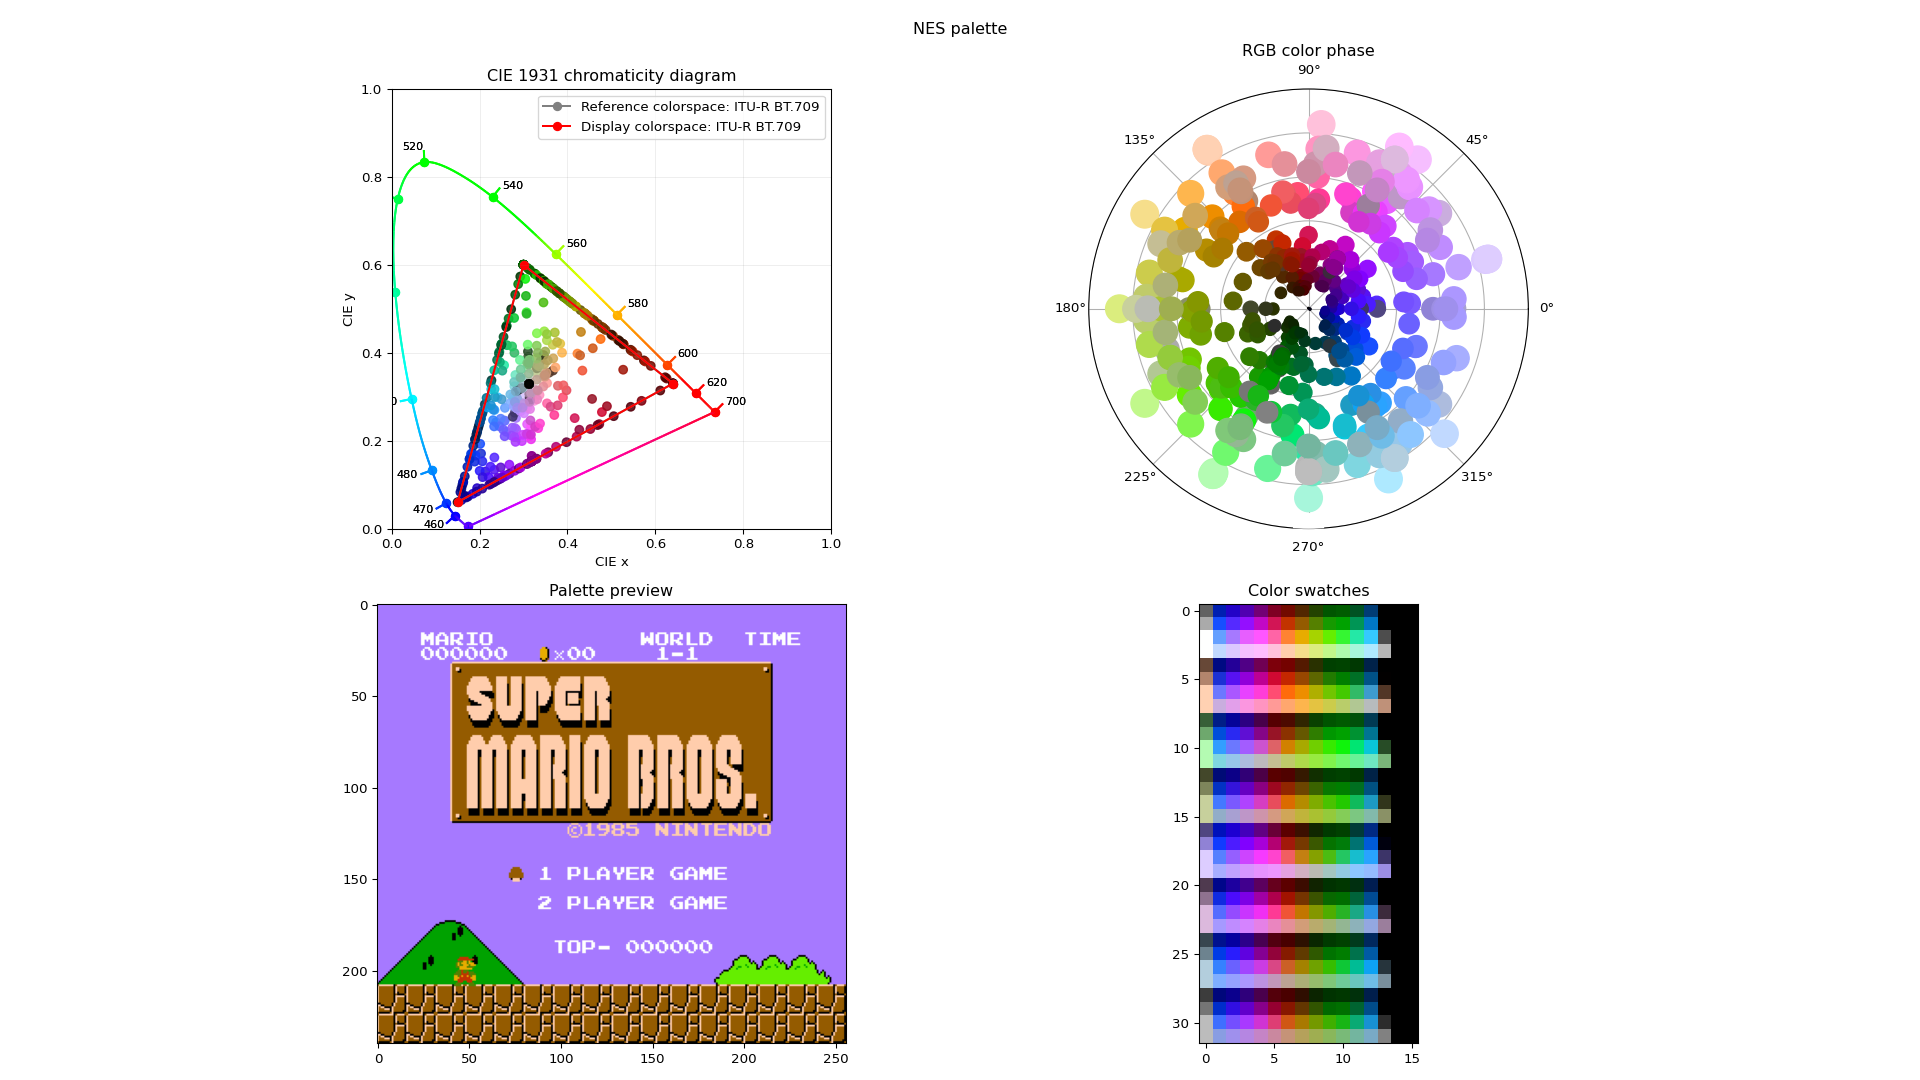
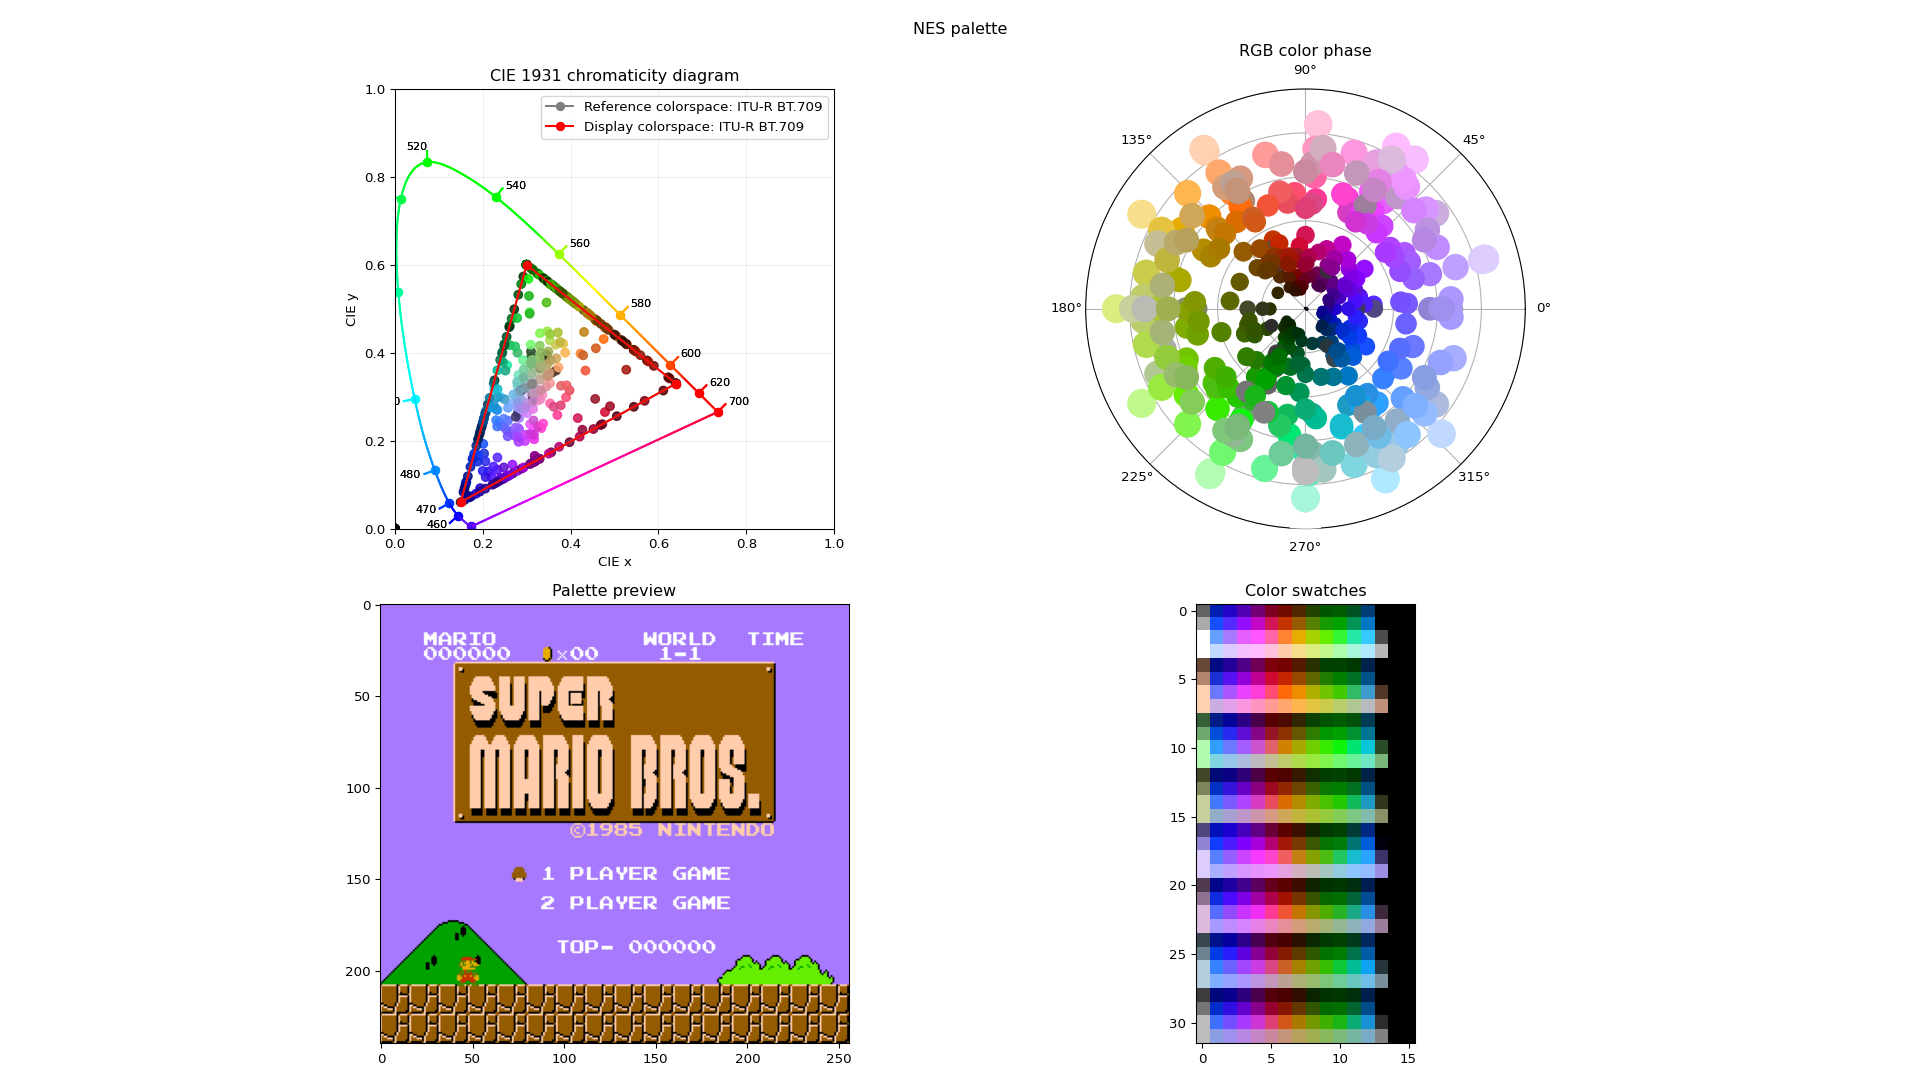
Fix OETFs, add linear light output
thanks L. Spiro and NewRisingSun!

diff --git a/palgen-persune.py b/palgen-persune.py
@@ -23,7 +23,7 @@ import numpy as np
 
 parser=argparse.ArgumentParser(
     description="yet another NES palette generator",
-    epilog="version 0.7.3")
+    epilog="version 0.8.0")
 # print output options
 parser.add_argument(
     "--html-hex",
@@ -73,7 +73,7 @@ parser.add_argument(
 parser.add_argument(
     "--float-pal",
     type=str,
-    help=".pal file but with 32-bit single precision floating point numbers")
+    help=".pal file but with 64-bit double precision floating point numbers")
 parser.add_argument(
     "-e",
     "--emphasis",
@@ -182,13 +182,25 @@ parser.add_argument(
     "-cat",
     "--chromatic-adaptation-transform",
     type = str,
-    help = "chromatic adaptation transform method, default = None")
+    help = "chromatic adaptation transform method, default = None",
+    default = None)
 parser.add_argument(
     "-ict",
     "--inverse-chromatic-transform",
     action="store_true",
     help = "invert direction of chromatic adaptation transform method (from display to reference)")
+parser.add_argument(
+    "-oetf",
+    "--opto-electronic",
+    type=str,
+    help="applies an opto-electronic transfer function to the palette, default = \"ITU-R BT.709\"",
+    default = "ITU-R BT.709")
+parser.add_argument(
+    "--linear-light",
+    action="store_true",
+    help="skip converting linear light to linear signal")
 
+# colorimetry reference RGB and whitepoint primaries
 parser.add_argument(
     "-rpr",
     "--reference-primaries-r",
@@ -214,6 +226,7 @@ parser.add_argument(
     nargs=2,
     help = "set custom reference whitepoint, in CIE xy chromaticity coordinates")
 
+# colorimetry display RGB and whitepoint primaries
 parser.add_argument(
     "-dpr",
     "--display-primaries-r",
@@ -570,6 +583,29 @@ def NES_waveform_plot(voltage_buffer, emphasis, luma, hue, sequence_counter):
         plt.show()
     plt.close()
 
+def normalize_RGB(RGB_buffer):
+    # clip takes priority over normalize
+    if (args.normalize != -1):
+        match args.normalize:
+            case 0:
+                RGB_buffer -= np.amin(RGB_buffer)
+                RGB_buffer /= np.amax(RGB_buffer)
+            case 1:
+                RGB_buffer /= np.amax(RGB_buffer)
+            case _:
+                print("normalize option not recognized, using default")
+                RGB_buffer -= np.amin(RGB_buffer)
+                RGB_buffer /= (np.amax(RGB_buffer) - np.amin(RGB_buffer))
+    else:
+        match args.clip:
+            case 1:
+                RGB_buffer = color_clip_darken(RGB_buffer)
+            case 2:
+                RGB_buffer = color_clip_desaturate(RGB_buffer)
+
+    # clip to 0.0-1.0 to ensure everything is within range
+    np.clip(RGB_buffer, 0, 1, out=RGB_buffer)
+
 
 for emphasis in range(8):
     # emphasis bitmask, travelling from lsb to msb
@@ -676,13 +712,18 @@ RGB_buffer /= (signal_white_point - signal_black_point)
 RGB_buffer += args.brightness
 RGB_buffer *= (args.contrast + 1)
 
+# fit RGB within range of 0.0-1.0
+normalize_RGB(RGB_buffer)
+
 # preserve uncorrected RGB for color plotting
 RGB_uncorrected = RGB_buffer
 # convert RGB to display output
-# convert signal to linear light
-RGB_buffer = colour.models.oetf_inverse_BT709(RGB_buffer)
 
-# transform linear light
+# convert linear signal to linear light
+RGB_buffer = colour.oetf_inverse(RGB_buffer, function=args.opto_electronic)
+RGB_uncorrected = colour.oetf_inverse(RGB_uncorrected, function=args.opto_electronic)
+
+# transform color primaries
 if (args.inverse_chromatic_transform):
     RGB_buffer = colour.RGB_to_RGB(
         RGB_buffer,
@@ -696,39 +737,14 @@ else:
         t_colorspace,
         chromatic_adaptation_transform=args.chromatic_adaptation_transform)
 
-# convert linear light to signal
-RGB_buffer = colour.models.oetf_BT709(RGB_buffer)
+# convert linear light to linear signal, if permitted
+if (not args.linear_light):
+    RGB_buffer = colour.oetf(RGB_buffer, function=args.opto_electronic)
+    RGB_uncorrected = colour.oetf(RGB_uncorrected, function=args.opto_electronic)
 
-# fit RGB within range of 0.0-1.0
-# clip takes priority over normalize
-if (args.normalize != -1):
-    match args.normalize:
-        case 0:
-            RGB_buffer -= np.amin(RGB_buffer)
-            RGB_buffer /= np.amax(RGB_buffer)
-            RGB_uncorrected -= np.amin(RGB_uncorrected)
-            RGB_uncorrected /= np.amax(RGB_uncorrected)
-        case 1:
-            RGB_buffer /= np.amax(RGB_buffer)
-            RGB_uncorrected /= np.amax(RGB_uncorrected)
-        case _:
-            print("normalize option not recognized, using default")
-            RGB_buffer -= np.amin(RGB_buffer)
-            RGB_buffer /= (np.amax(RGB_buffer) - np.amin(RGB_buffer))
-            RGB_uncorrected -= np.amin(RGB_uncorrected)
-            RGB_uncorrected /= (np.amax(RGB_uncorrected) - np.amin(RGB_uncorrected))
-else:
-    match args.clip:
-        case 1:
-            RGB_buffer = color_clip_darken(RGB_buffer)
-            RGB_uncorrected = color_clip_darken(RGB_uncorrected)
-        case 2:
-            RGB_buffer = color_clip_desaturate(RGB_buffer)
-            RGB_uncorrected = color_clip_desaturate(RGB_uncorrected)
-
-# clip to 0.0-1.0 to ensure everything is within range
-np.clip(RGB_buffer, 0, 1, out=RGB_buffer)
-np.clip(RGB_uncorrected, 0, 1, out=RGB_uncorrected)
+# clip again, the transform may produce values beyond 0-1
+normalize_RGB(RGB_buffer)
+normalize_RGB(RGB_uncorrected)
 
 # display data about the palette, and optionally write a .pal file
 if (args.emphasis):

diff --git a/README.md b/README.md
@@ -10,6 +10,8 @@ something to note: there _is_ no one true NES palette, but this generator can pr
 
 ## Requirements
 
+See `requirements.txt` for more details.
+
 This script requires `numpy` for arrays and matrix math.
 
 This script requires the `colour-science` library for linear light functions, color adaptation, and CIE 1931 colorimetry diagrams.
@@ -23,7 +25,7 @@ usage: palgen-persune.py [-h] [--html-hex] [--wiki-table] [--c-table] [-d] [-r R
                          [-cbr COLORBURST_REFERENCE] [-bri BRIGHTNESS] [-con CONTRAST] [-hue HUE] [-sat SATURATION]
                          [-blp BLACK_POINT] [-whp WHITE_POINT] [-phs PHASE_SKEW] [-aps ANTIEMPHASIS_PHASE_SKEW]
                          [-ela EMPHASIS_LUMA_ATTENUATION] [-rfc REFERENCE_COLORSPACE] [-dsc DISPLAY_COLORSPACE]
-                         [-cat CHROMATIC_ADAPTATION_TRANSFORM] [-ict]
+                         [-cat CHROMATIC_ADAPTATION_TRANSFORM] [-ict] [-oetf OPTO_ELECTRONIC] [--linear-light]
                          [-rpr REFERENCE_PRIMARIES_R REFERENCE_PRIMARIES_R]
                          [-rpg REFERENCE_PRIMARIES_G REFERENCE_PRIMARIES_G]
                          [-rpb REFERENCE_PRIMARIES_B REFERENCE_PRIMARIES_B]
@@ -47,7 +49,7 @@ options:
   -o OUTPUT, --output OUTPUT
                         .pal file output
   --float-pal FLOAT_PAL
-                        .pal file but with 32-bit single precision floating point numbers
+                        .pal file but with 64-bit double precision floating point numbers
   -e, --emphasis        include emphasis entries
   -t TEST_IMAGE, --test-image TEST_IMAGE
                         use 256x240 uint16 raw binary PPU frame buffer for palette proofreading
@@ -86,6 +88,9 @@ options:
                         chromatic adaptation transform method, default = None
   -ict, --inverse-chromatic-transform
                         invert direction of chromatic adaptation transform method (from display to reference)
+  -oetf OPTO_ELECTRONIC, --opto-electronic OPTO_ELECTRONIC
+                        applies an opto-electronic transfer function to the palette, default = "ITU-R BT.709"
+  --linear-light        skip converting linear light to linear signal
   -rpr REFERENCE_PRIMARIES_R REFERENCE_PRIMARIES_R, --reference-primaries-r REFERENCE_PRIMARIES_R REFERENCE_PRIMARIES_R
                         set custom reference color primary R, in CIE xy chromaticity coordinates
   -rpg REFERENCE_PRIMARIES_G REFERENCE_PRIMARIES_G, --reference-primaries-g REFERENCE_PRIMARIES_G REFERENCE_PRIMARIES_G
@@ -103,7 +108,7 @@ options:
   -dpw DISPLAY_PRIMARIES_W DISPLAY_PRIMARIES_W, --display-primaries-w DISPLAY_PRIMARIES_W DISPLAY_PRIMARIES_W
                         set custom display whitepoint, in CIE xy chromaticity coordinates
 
-version 0.7.3
+version 0.8.0
 ```
 
 ## License
